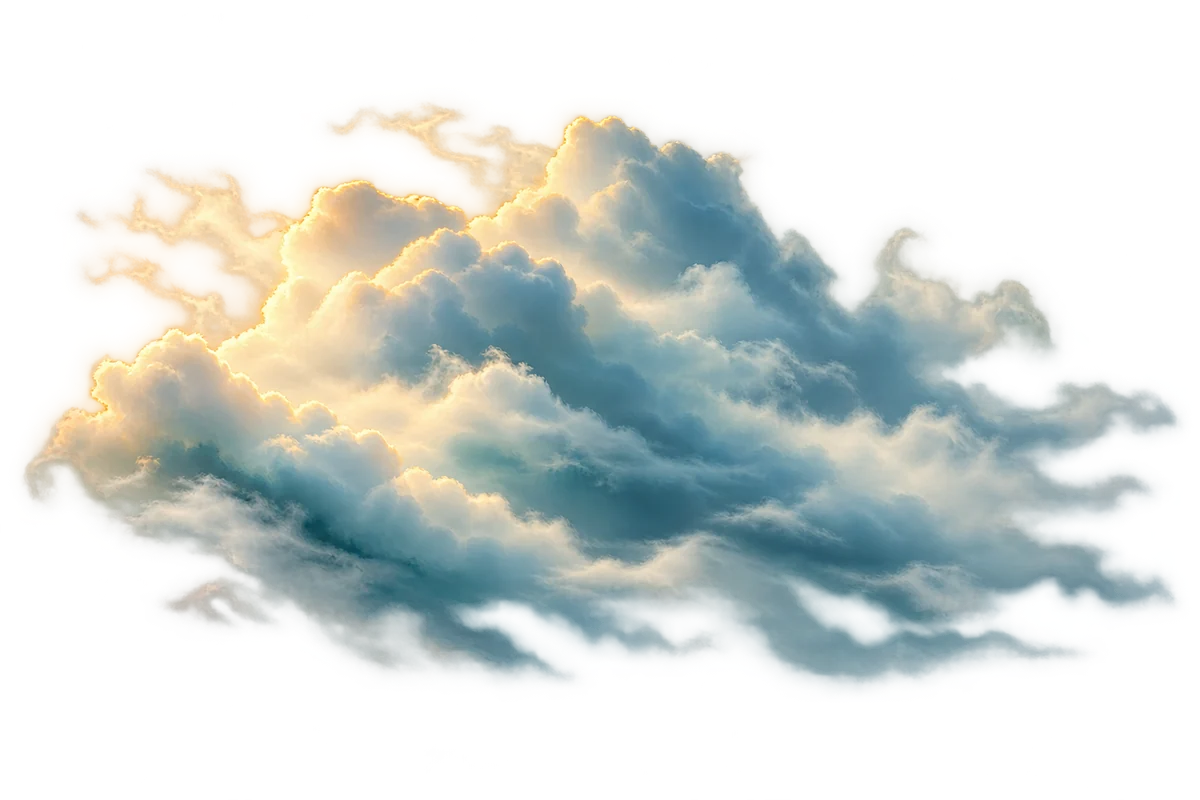
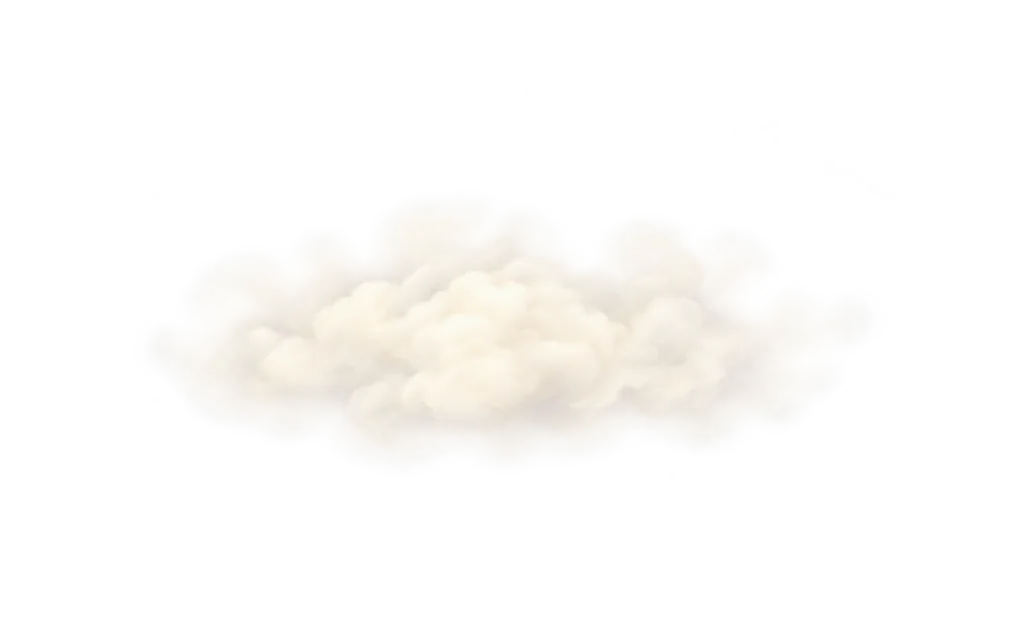
Nouveaux nuages à bords fondus (a, b) et traînée effilochée (c) dans la rotation

diff --git a/index.html b/index.html
@@ -739,6 +739,8 @@ textarea.fld{min-height:76px}
 .mapcomp{position:absolute;width:130px;transform:translate(-50%,-50%) rotate(-14deg);opacity:.8;pointer-events:none;filter:drop-shadow(0 6px 6px rgba(4,18,26,.35))}
 .fogpatch.fb{animation:fogdrift2 74s ease-in-out infinite alternate;opacity:.72}
 @keyframes fogdrift2{from{transform:translate(calc(-50% + 26px),-50%)}to{transform:translate(calc(-50% - 40px),calc(-50% - 8px)) scale(1.04)}}
+.fogpatch.fc{animation:fogdrift3 88s ease-in-out infinite alternate;opacity:.66}
+@keyframes fogdrift3{to{transform:translate(calc(-50% + 64px),calc(-50% - 12px)) scale(1.06)}}
 .trow{display:flex;align-items:center;gap:10px;width:100%}.trow .tload{flex:1}
 .tcomp{width:44px;height:44px;flex:none;animation:cspin 6s linear infinite;filter:drop-shadow(0 2px 4px rgba(0,0,0,.5))}
 .tcomp.done{animation-play-state:paused}
@@ -5821,7 +5823,7 @@ function renderMap() {
       <div class="coast" style="top:${CT}px;height:${CHF}px" aria-hidden="true"><img src="${IMG('port-coast')}" alt=""></div>
       <button class="coastport${S.port.includes('phare') ? ' phare' : ''}" style="left:${Math.round(CW * .6)}px;top:${Math.round(CT + CH * .26)}px;width:${Math.round(CW * .4)}px;height:${Math.round(CH * .48)}px" data-a="portisle" aria-label="Port d’attache"><span class="lbl"><b><span class="ti">Port d’attache</span></b></span></button>
       <button class="lair${krak ? ' won' : ''}" style="left:${W * .76}px;top:96px" data-a="lair" aria-label="${krak ? 'Repaire du Kraken' : 'Une île cachée dans le brouillard'}"><img src="${IMG('isle-kraken')}" alt="">${krak ? '<span class="lbl"><b><span class="ti">Repaire du Kraken</span></b></span>' : ''}</button>
-      <img class="fogpatch" src="${IMG('fx-fog-a')}" alt="" style="left:${W * .3}px;top:200px;width:420px"><img class="fogpatch fb" src="${IMG('fx-fog-b')}" alt="" style="left:${W * .75}px;top:${krak ? 40 : 120}px;width:${krak ? 300 : 440}px">
+      <img class="fogpatch" src="${IMG('fx-fog-a')}" alt="" style="left:${W * .3}px;top:200px;width:420px"><img class="fogpatch fb" src="${IMG('fx-fog-b')}" alt="" style="left:${W * .75}px;top:${krak ? 40 : 120}px;width:${krak ? 300 : 440}px"><img class="fogpatch fc" src="${IMG('fx-fog-c')}" alt="" style="left:${W * .14}px;top:330px;width:470px">
       <div class="mers" style="top:24px">Mers inexplorées</div>
       ${isleHTML}${fog}
       <div class="ripple" aria-hidden="true" style="left:${px(cur) + (cur.x < 50 ? 120 : -120)}px;top:${cur.y - 40}px;--simg:url(${IMG((paintDef()[4] || 'ship-skin-origine') + '-top')})"><i></i><i></i><span class="wk"><span class="bow"></span><span class="tr"></span><span class="tr t2"></span></span></div>
@@ -7074,7 +7076,7 @@ function decorate(kind) {
       t.innerHTML = [120, 420, 760, 1080, 1390, 1700].map((y, k) => `<i class="csh" style="top:${y}px;--d:${70 + k * 13}s;--del:-${k * 17}s;width:${340 + (k % 3) * 70}px"></i>`).join('');
       t.style.setProperty('--mw', m.clientWidth + 'px'); gl.after(t);
       const para = document.createElement('div'); para.className = 'para'; para.setAttribute('aria-hidden', 'true');
-      para.innerHTML = [[260, 8, 'a'], [640, 55, 'b'], [980, 15, 'a'], [1330, 60, 'b'], [1650, 20, 'a']].map(([y, x, f], k) => `<img src="${IMG('fx-fog-' + f)}" alt="" style="top:${y}px;left:${x - 25}%;--d:${36 + k * 9}s">`).join('');
+      para.innerHTML = [[260, 8, 'a'], [640, 55, 'c'], [980, 15, 'b'], [1330, 60, 'a'], [1650, 20, 'c']].map(([y, x, f], k) => `<img src="${IMG('fx-fog-' + f)}" alt="" style="top:${y}px;left:${x - 25}%;--d:${36 + k * 9}s">`).join('');
       m.appendChild(para);
       const fl = document.createElement('div'); fl.className = 'flock mflock'; fl.setAttribute('aria-hidden', 'true'); fl.innerHTML = mapGulls(); m.appendChild(fl); }
     // Île découverte depuis le dernier passage sur la carte : la carte défile jusqu'à elle, le brouillard se dissipe, l'île apparaît
@@ -7122,7 +7124,7 @@ function titleScreen() {
   app.innerHTML = `<div class="screen title${many ? ' who' : ''}" ${many ? '' : 'data-a="start" role="button" tabindex="0" aria-label="Toucher pour embarquer"'}><img class="bg" src="${IMG('bg-title')}" alt="">
     <div class="tlogo"><div class="smallcaps">L’école pirate</div><div class="disp">Moussaillon</div></div>
     <div class="tgo">${many ? `<div class="whob glass"><b>Qui joue ?</b>${kidList()}</div>` : '<span>Touche pour embarquer</span>'}<div class="trow" aria-hidden="true"><img class="tcomp" id="tcomp" src="${IMG('deco-compass')}" alt=""><div class="tload"><i id="tload"></i></div></div></div><div class="vers2">v${VERSION.split(' ')[0]}${ADMIN ? ' · admin' : ''}</div></div>`;
-  const list = ['tex-sea', 'lagoon-round', 'lagoon-oval', 'lagoon-rocks', 'fx-fog-a', 'fx-fog-b', 'port-coast', 'isle-kraken', 'deco-compass', (paintDef()[4] || 'ship-skin-origine') + '-top', 'pennant-0', 'pennant-1', 'pennant-2', capt(), 'coin-doublon', 'tex-parchment', 'guide-capitaine', ...ISLES.filter(i => !i.soon).map(i => i.img), 'crew-perroquet'];
+  const list = ['tex-sea', 'lagoon-round', 'lagoon-oval', 'lagoon-rocks', 'fx-fog-a', 'fx-fog-b', 'fx-fog-c', 'port-coast', 'isle-kraken', 'deco-compass', (paintDef()[4] || 'ship-skin-origine') + '-top', 'pennant-0', 'pennant-1', 'pennant-2', capt(), 'coin-doublon', 'tex-parchment', 'guide-capitaine', ...ISLES.filter(i => !i.soon).map(i => i.img), 'crew-perroquet'];
   let done = 0; list.forEach(n => { const im = new Image(); im.onload = im.onerror = () => { done++; const b = $('#tload'); if (b) b.style.width = Math.round(done / list.length * 100) + '%'; if (done === list.length) { const c = $('#tcomp'); c && c.classList.add('done'); } }; im.src = IMG(n); });
   ac();
 }

diff --git a/src/app.html b/src/app.html
@@ -710,6 +710,8 @@ textarea.fld{min-height:76px}
 .mapcomp{position:absolute;width:130px;transform:translate(-50%,-50%) rotate(-14deg);opacity:.8;pointer-events:none;filter:drop-shadow(0 6px 6px rgba(4,18,26,.35))}
 .fogpatch.fb{animation:fogdrift2 74s ease-in-out infinite alternate;opacity:.72}
 @keyframes fogdrift2{from{transform:translate(calc(-50% + 26px),-50%)}to{transform:translate(calc(-50% - 40px),calc(-50% - 8px)) scale(1.04)}}
+.fogpatch.fc{animation:fogdrift3 88s ease-in-out infinite alternate;opacity:.66}
+@keyframes fogdrift3{to{transform:translate(calc(-50% + 64px),calc(-50% - 12px)) scale(1.06)}}
 .trow{display:flex;align-items:center;gap:10px;width:100%}.trow .tload{flex:1}
 .tcomp{width:44px;height:44px;flex:none;animation:cspin 6s linear infinite;filter:drop-shadow(0 2px 4px rgba(0,0,0,.5))}
 .tcomp.done{animation-play-state:paused}
@@ -5792,7 +5794,7 @@ function renderMap() {
       <div class="coast" style="top:${CT}px;height:${CHF}px" aria-hidden="true"><img src="${IMG('port-coast')}" alt=""></div>
       <button class="coastport${S.port.includes('phare') ? ' phare' : ''}" style="left:${Math.round(CW * .6)}px;top:${Math.round(CT + CH * .26)}px;width:${Math.round(CW * .4)}px;height:${Math.round(CH * .48)}px" data-a="portisle" aria-label="Port d’attache"><span class="lbl"><b><span class="ti">Port d’attache</span></b></span></button>
       <button class="lair${krak ? ' won' : ''}" style="left:${W * .76}px;top:96px" data-a="lair" aria-label="${krak ? 'Repaire du Kraken' : 'Une île cachée dans le brouillard'}"><img src="${IMG('isle-kraken')}" alt="">${krak ? '<span class="lbl"><b><span class="ti">Repaire du Kraken</span></b></span>' : ''}</button>
-      <img class="fogpatch" src="${IMG('fx-fog-a')}" alt="" style="left:${W * .3}px;top:200px;width:420px"><img class="fogpatch fb" src="${IMG('fx-fog-b')}" alt="" style="left:${W * .75}px;top:${krak ? 40 : 120}px;width:${krak ? 300 : 440}px">
+      <img class="fogpatch" src="${IMG('fx-fog-a')}" alt="" style="left:${W * .3}px;top:200px;width:420px"><img class="fogpatch fb" src="${IMG('fx-fog-b')}" alt="" style="left:${W * .75}px;top:${krak ? 40 : 120}px;width:${krak ? 300 : 440}px"><img class="fogpatch fc" src="${IMG('fx-fog-c')}" alt="" style="left:${W * .14}px;top:330px;width:470px">
       <div class="mers" style="top:24px">Mers inexplorées</div>
       ${isleHTML}${fog}
       <div class="ripple" aria-hidden="true" style="left:${px(cur) + (cur.x < 50 ? 120 : -120)}px;top:${cur.y - 40}px;--simg:url(${IMG((paintDef()[4] || 'ship-skin-origine') + '-top')})"><i></i><i></i><span class="wk"><span class="bow"></span><span class="tr"></span><span class="tr t2"></span></span></div>
@@ -7045,7 +7047,7 @@ function decorate(kind) {
       t.innerHTML = [120, 420, 760, 1080, 1390, 1700].map((y, k) => `<i class="csh" style="top:${y}px;--d:${70 + k * 13}s;--del:-${k * 17}s;width:${340 + (k % 3) * 70}px"></i>`).join('');
       t.style.setProperty('--mw', m.clientWidth + 'px'); gl.after(t);
       const para = document.createElement('div'); para.className = 'para'; para.setAttribute('aria-hidden', 'true');
-      para.innerHTML = [[260, 8, 'a'], [640, 55, 'b'], [980, 15, 'a'], [1330, 60, 'b'], [1650, 20, 'a']].map(([y, x, f], k) => `<img src="${IMG('fx-fog-' + f)}" alt="" style="top:${y}px;left:${x - 25}%;--d:${36 + k * 9}s">`).join('');
+      para.innerHTML = [[260, 8, 'a'], [640, 55, 'c'], [980, 15, 'b'], [1330, 60, 'a'], [1650, 20, 'c']].map(([y, x, f], k) => `<img src="${IMG('fx-fog-' + f)}" alt="" style="top:${y}px;left:${x - 25}%;--d:${36 + k * 9}s">`).join('');
       m.appendChild(para);
       const fl = document.createElement('div'); fl.className = 'flock mflock'; fl.setAttribute('aria-hidden', 'true'); fl.innerHTML = mapGulls(); m.appendChild(fl); }
     // Île découverte depuis le dernier passage sur la carte : la carte défile jusqu'à elle, le brouillard se dissipe, l'île apparaît
@@ -7093,7 +7095,7 @@ function titleScreen() {
   app.innerHTML = `<div class="screen title${many ? ' who' : ''}" ${many ? '' : 'data-a="start" role="button" tabindex="0" aria-label="Toucher pour embarquer"'}><img class="bg" src="${IMG('bg-title')}" alt="">
     <div class="tlogo"><div class="smallcaps">L’école pirate</div><div class="disp">Moussaillon</div></div>
     <div class="tgo">${many ? `<div class="whob glass"><b>Qui joue ?</b>${kidList()}</div>` : '<span>Touche pour embarquer</span>'}<div class="trow" aria-hidden="true"><img class="tcomp" id="tcomp" src="${IMG('deco-compass')}" alt=""><div class="tload"><i id="tload"></i></div></div></div><div class="vers2">v${VERSION.split(' ')[0]}${ADMIN ? ' · admin' : ''}</div></div>`;
-  const list = ['tex-sea', 'lagoon-round', 'lagoon-oval', 'lagoon-rocks', 'fx-fog-a', 'fx-fog-b', 'port-coast', 'isle-kraken', 'deco-compass', (paintDef()[4] || 'ship-skin-origine') + '-top', 'pennant-0', 'pennant-1', 'pennant-2', capt(), 'coin-doublon', 'tex-parchment', 'guide-capitaine', ...ISLES.filter(i => !i.soon).map(i => i.img), 'crew-perroquet'];
+  const list = ['tex-sea', 'lagoon-round', 'lagoon-oval', 'lagoon-rocks', 'fx-fog-a', 'fx-fog-b', 'fx-fog-c', 'port-coast', 'isle-kraken', 'deco-compass', (paintDef()[4] || 'ship-skin-origine') + '-top', 'pennant-0', 'pennant-1', 'pennant-2', capt(), 'coin-doublon', 'tex-parchment', 'guide-capitaine', ...ISLES.filter(i => !i.soon).map(i => i.img), 'crew-perroquet'];
   let done = 0; list.forEach(n => { const im = new Image(); im.onload = im.onerror = () => { done++; const b = $('#tload'); if (b) b.style.width = Math.round(done / list.length * 100) + '%'; if (done === list.length) { const c = $('#tcomp'); c && c.classList.add('done'); } }; im.src = IMG(n); });
   ac();
 }
